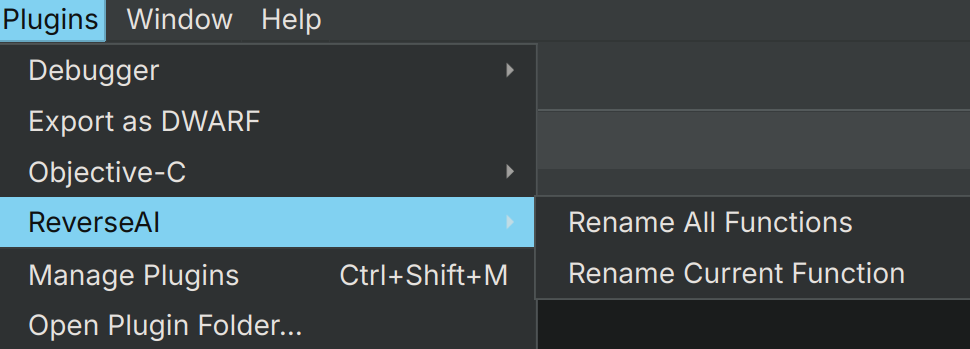
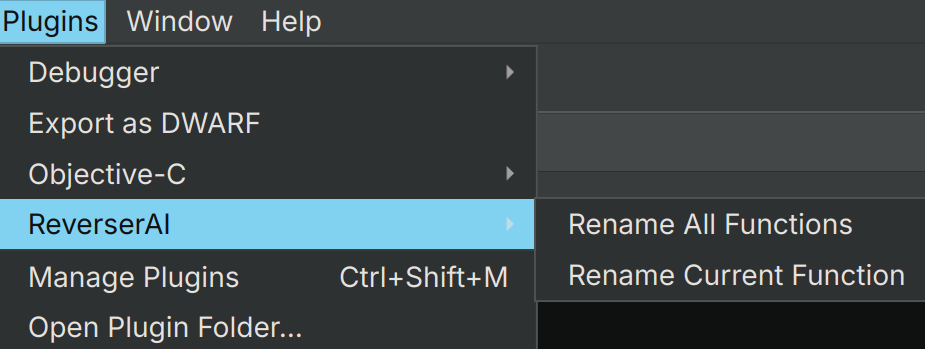
Fix API names in config, documentation and screenshots (#1)

diff --git a/__init__.py b/__init__.py
@@ -5,26 +5,26 @@ from .reverser_ai.binary_ninja import (plugin_wrapper_rename_all_functions_bg,
                                        plugin_wrapper_rename_function_bg)
 
 PluginCommand.register(
-    "ReverseAI\\Rename All Functions",
+    "ReverserAI\\Rename All Functions",
     "Renames all functions using AI-generated suggestions.",
     plugin_wrapper_rename_all_functions_bg
 )
 
 PluginCommand.register_for_function(
-    "ReverseAI\\Rename Current Function",
+    "ReverserAI\\Rename Current Function",
     "Renames the selected function with an AI-generated suggestion.",
     plugin_wrapper_rename_function_bg
 )
 
 
 Settings().register_group(
-    "reverse_ai",
-    "ReverseAI"
+    "reverser_ai",
+    "ReverserAI"
 )
 
 
 Settings().register_setting(
-    "reverse_ai.use_mmap",
+    "reverser_ai.use_mmap",
     '''{
         "description" : "Optimize speed by loading the entire model into memory (requires ~5GB RAM)", 
         "title" : "Use Memory Mapping", 
@@ -35,7 +35,7 @@ Settings().register_setting(
 )
 
 Settings().register_setting(
-    "reverse_ai.n_threads",
+    "reverser_ai.n_threads",
     '''{
         "description" : "Utilize CPU threads; set to 0 to disable CPU. For full CPU load, set to maximum number of available threads", 
         "title" : "Number of CPU Threads", 
@@ -46,7 +46,7 @@ Settings().register_setting(
 )
 
 Settings().register_setting(
-    "reverse_ai.n_gpu_layers",
+    "reverser_ai.n_gpu_layers",
     '''{
         "description" : "Utilize GPU layers for faster processing with a strong GPU", 
         "title" : "Number of GPU Layers", 
@@ -57,7 +57,7 @@ Settings().register_setting(
 )
 
 Settings().register_setting(
-    "reverse_ai.seed",
+    "reverser_ai.seed",
     '''{
         "description" : "Ensure deterministic model outputs by specifying a seed", 
         "title" : "Seed for Determinism", 
@@ -68,7 +68,7 @@ Settings().register_setting(
 )
 
 Settings().register_setting(
-    "reverse_ai.verbose",
+    "reverser_ai.verbose",
     '''{
         "description" : "Toggle verbose logging of model configurations", 
         "title" : "Verbose Model Logging", 

diff --git a/reverser_ai/binary_ninja/function_name_gpt_wrapper.py b/reverser_ai/binary_ninja/function_name_gpt_wrapper.py
@@ -35,12 +35,12 @@ class FunctionNameGPTWrapper:
         - dict: A dictionary containing configuration settings read from Binary Ninja.
         """
         config = {}
-        # Access each setting using Settings.get and specify the correct setting identifier
-        config["use_mmap"] = Settings().get_bool("reverse_ai.use_mmap")
-        config["n_threads"] = Settings().get_integer("reverse_ai.n_threads")
-        config["n_gpu_layers"] = Settings().get_integer("reverse_ai.n_gpu_layers")
-        config["seed"] = Settings().get_integer("reverse_ai.seed")
-        config["verbose"] = Settings().get_bool("reverse_ai.verbose")
+        # Access each setting and specify the correct setting identifier
+        config["use_mmap"] = Settings().get_bool("reverser_ai.use_mmap")
+        config["n_threads"] = Settings().get_integer("reverser_ai.n_threads")
+        config["n_gpu_layers"] = Settings().get_integer("reverser_ai.n_gpu_layers")
+        config["seed"] = Settings().get_integer("reverser_ai.seed")
+        config["verbose"] = Settings().get_bool("reverser_ai.verbose")
 
         return config
 

diff --git a/README.md b/README.md
@@ -91,7 +91,7 @@ The default configuration prioritizes GPU performance and minimizes verbose outp
 
 #### Binary Ninja
 
-To adjust settings in Binary Ninja, open `Settings` and search for `reverse_ai`. Changes require Binary Ninja to be restarted.
+To adjust settings in Binary Ninja, open `Settings` and search for `reverser_ai`. Changes require Binary Ninja to be restarted.
 
 <p align="center">
 <img alt="Plugin Settings" src="imgs/plugin_settings.png"/>
